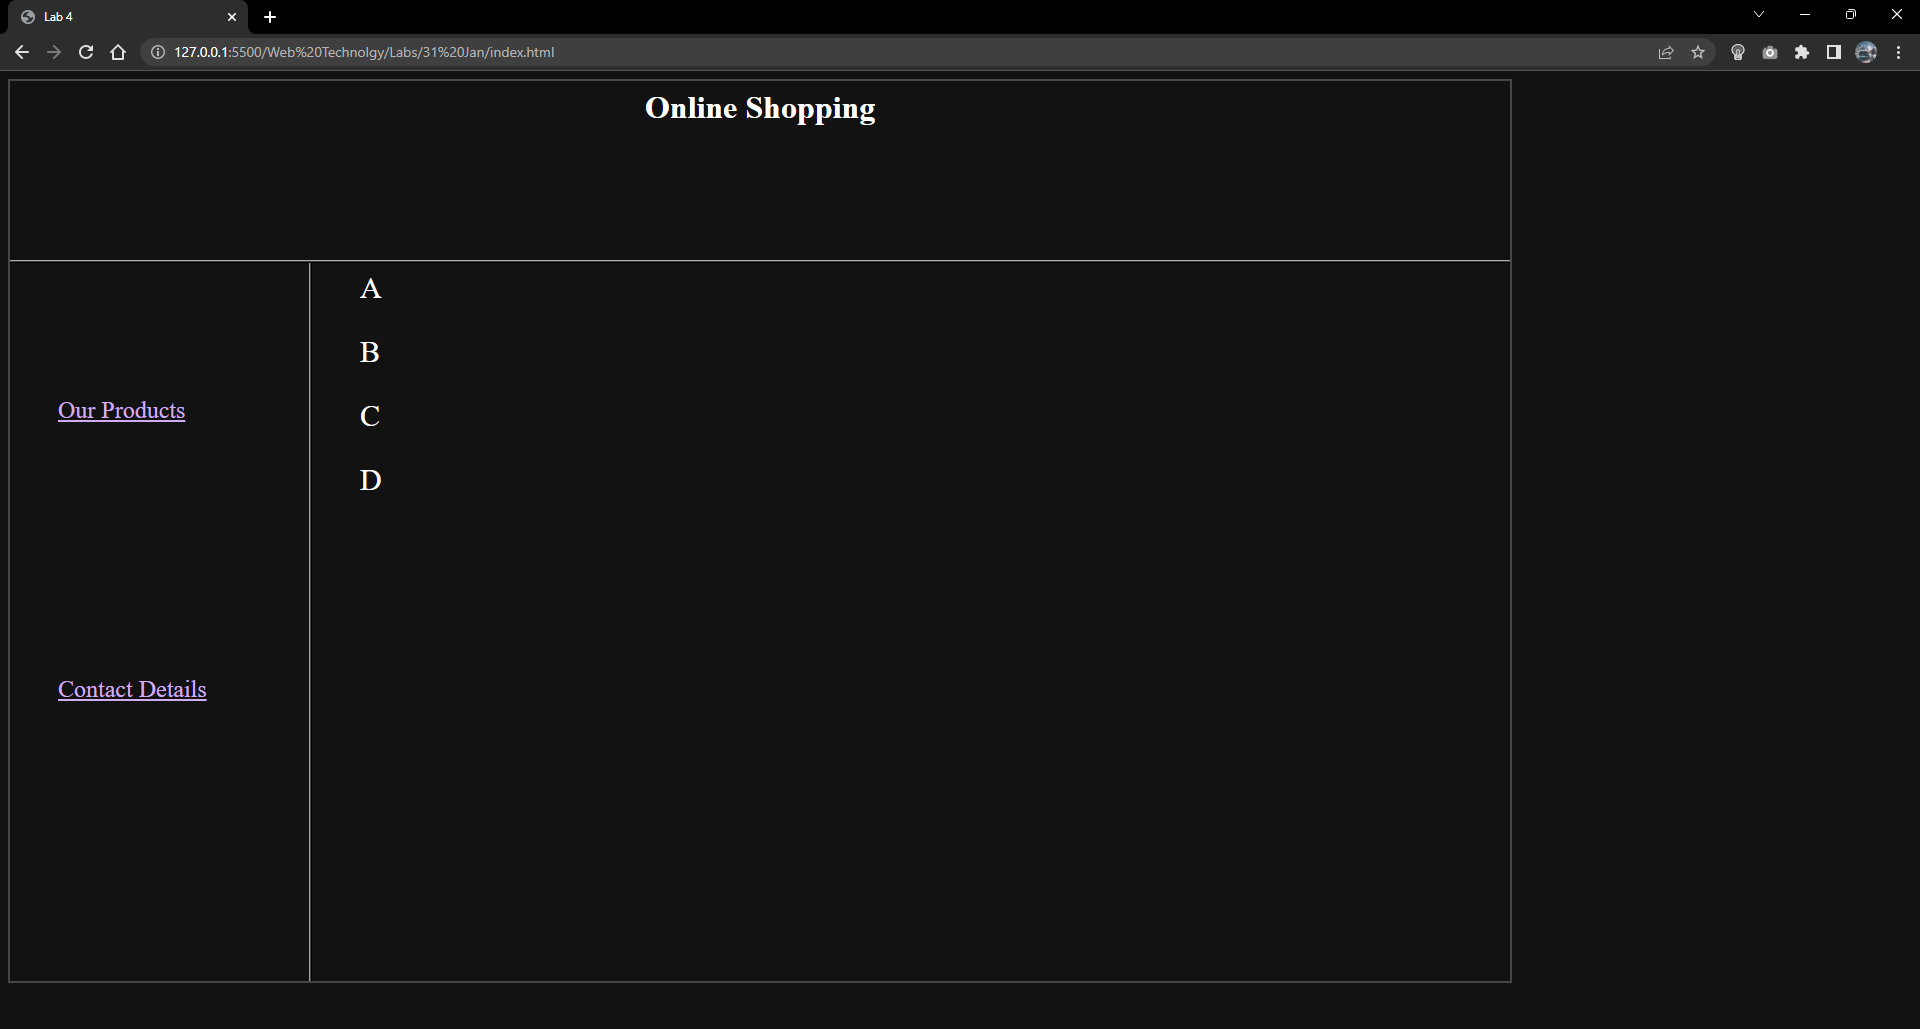
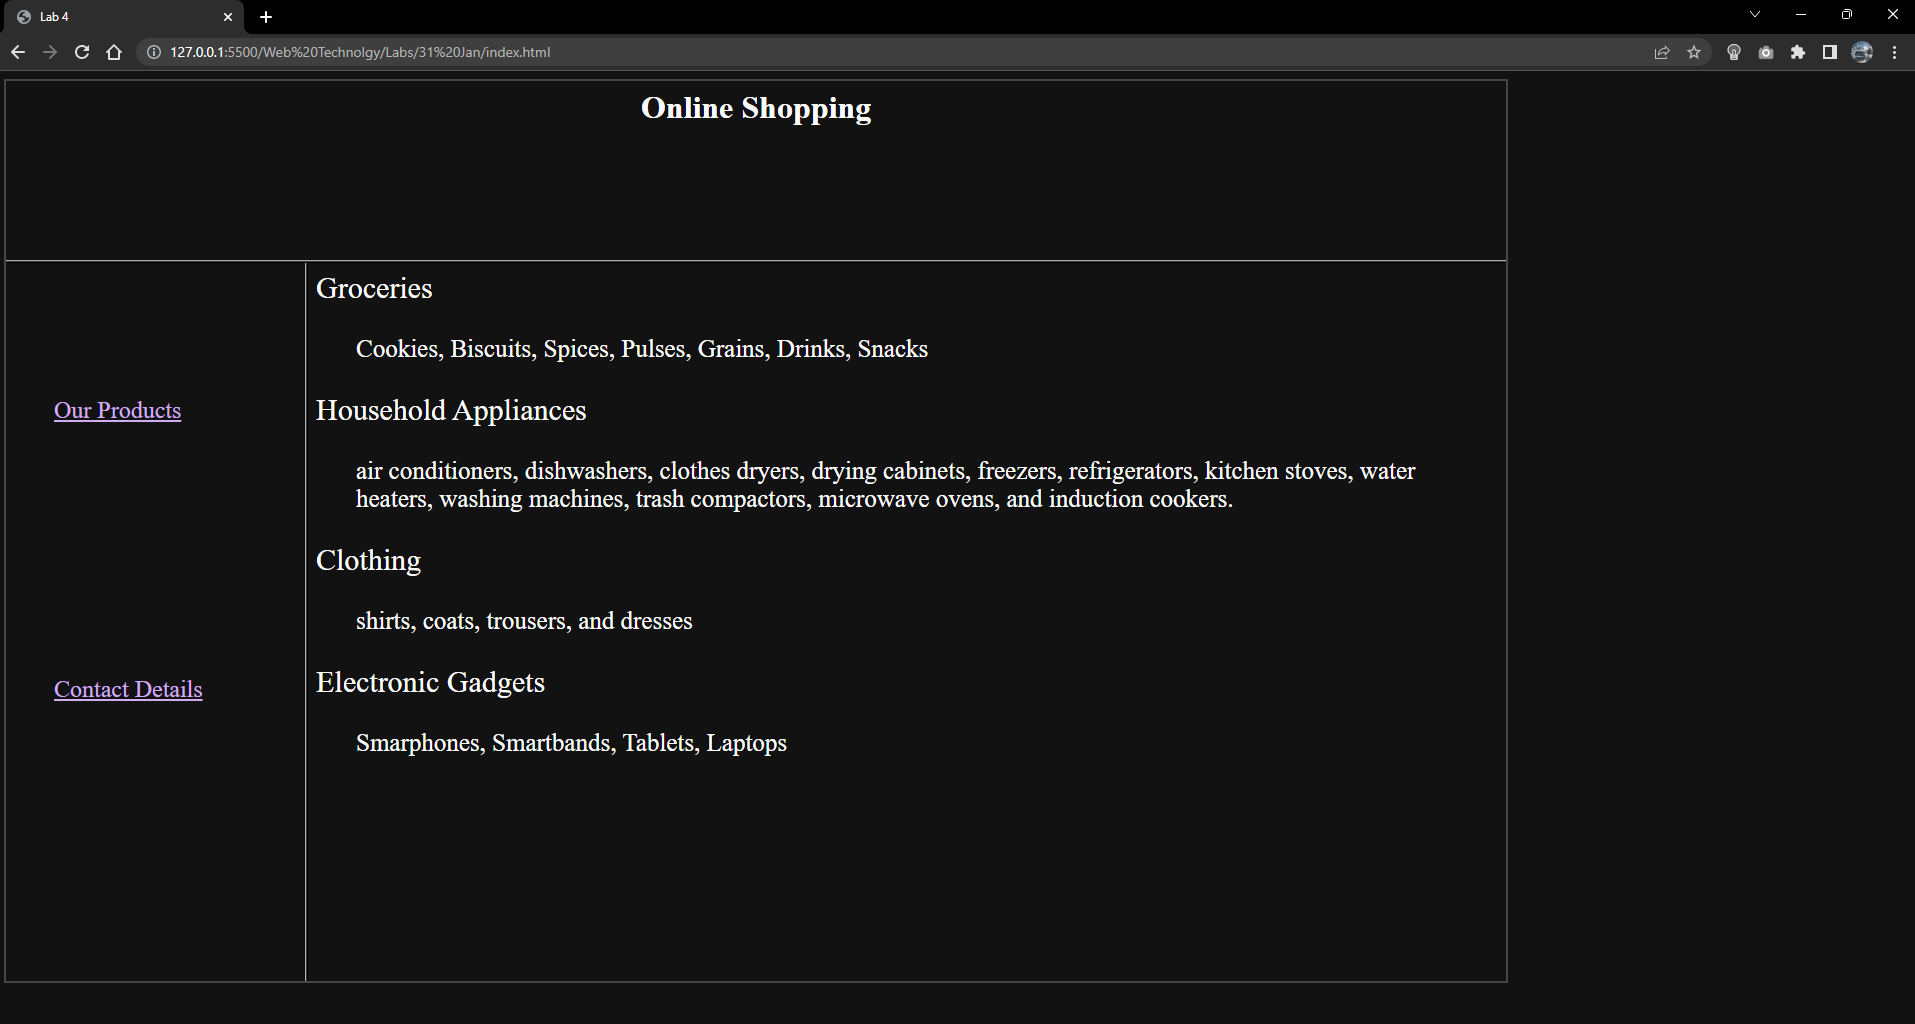
made some changes in products.html

diff --git a/Web Technolgy/Labs/31 Jan/Products.html b/Web Technolgy/Labs/31 Jan/Products.html
@@ -3,11 +3,15 @@
     <title>Products</title>
 </head>
 <body>
-    <ul style="list-style-type:none;">
-        <li><p style="font-size: 30px;">A</p></li>
-        <li><p style="font-size: 30px;">B</p></li>
-        <li><p style="font-size: 30px;">C</p></li>
-        <li><p style="font-size: 30px;">D</p></li>
-    </ul>
+    <dl style="list-style-type:none;">
+        <dt><p style="font-size: 30px;">Groceries</p></li>
+        <dd><p style="font-size: 25px;">Cookies, Biscuits, Spices, Pulses, Grains, Drinks, Snacks</p></dd>
+        <li><p style="font-size: 30px;">Household Appliances</p></li>
+        <dd><p style="font-size: 25px;"> air conditioners, dishwashers, clothes dryers, drying cabinets, freezers, refrigerators, kitchen stoves, water heaters, washing machines, trash compactors, microwave ovens, and induction cookers.</p></dd>
+        <li><p style="font-size: 30px;">Clothing</p></li>
+        <dd><p style="font-size: 25px;">shirts, coats, trousers, and dresses</p></dd>
+        <li><p style="font-size: 30px;">Electronic Gadgets</p></li>
+        <dd><p style="font-size: 25px;">Smarphones, Smartbands, Tablets, Laptops</p></dd>
+    </dl>
 </body>
 </html>
